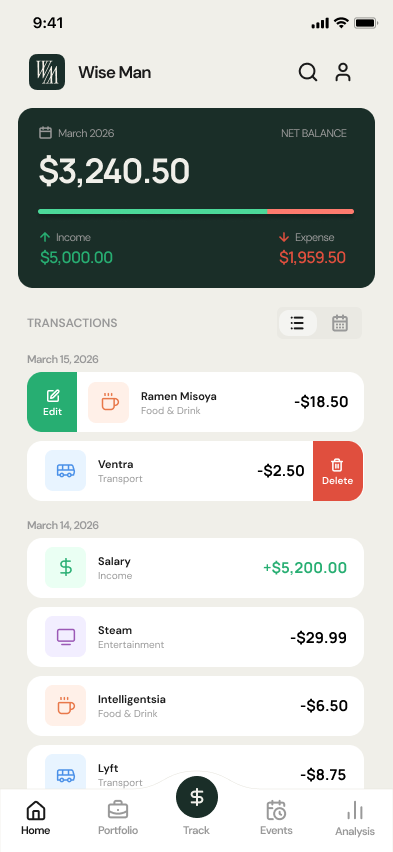
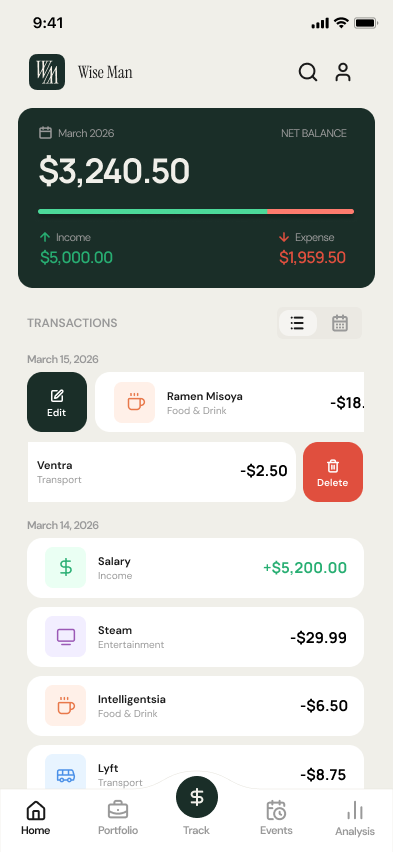
docs: add Instrument Serif font spec and reorganize brand colors

diff --git a/docs/design-system.md b/docs/design-system.md
@@ -12,6 +12,9 @@
 - Usage: All UI text (labels, categories, descriptions, buttons)
 - Weights: Regular (400) / Medium (500) / Bold (700)
 
+### App Name — Instrument Serif
+- Usage: Header "Wise Man" title, App icon letters, Empty state titles, Splash screen
+
 ### Financial Numbers — Manrope
 - Usage: All money amounts ($3,240.50, $5,200.00, etc.)
 - Weights: Bold (700) / ExtraBold (800)
@@ -31,23 +34,12 @@
 
 ### Brand Colors
 
-| Name         | Hex       | Usage                        |
-|--------------|-----------|------------------------------|
-| Forest Green | `#1A2E28` | Primary, buttons, emphasis   |
-| Warm White   | `#F5F0E8` | Icon letter color            |
-
-### Background Colors
-
 | Name        | Hex       | Usage                        |
 |-------------|-----------|------------------------------|
-| BG Primary  | `#F0EFE9` | Light mode background        |
-
-### Text Colors
-
-| Name           | Hex       | Usage          |
-|----------------|-----------|----------------|
-| Text Primary   | `#1A1A1A` | Primary text   |
-| Text Secondary | `#999999` | Secondary text |
+| Forest Green| `#1A2E28` | Primary, buttons, emphasis   |
+| Warm Cream  | `#F0EFE9` | Light mode background        |
+| Near Black  | `#1A1A1A` | Primary text                 |
+| Warm White  | `#F5F0E8` | Icon letter color            |
 
 ### Semantic Colors
 
